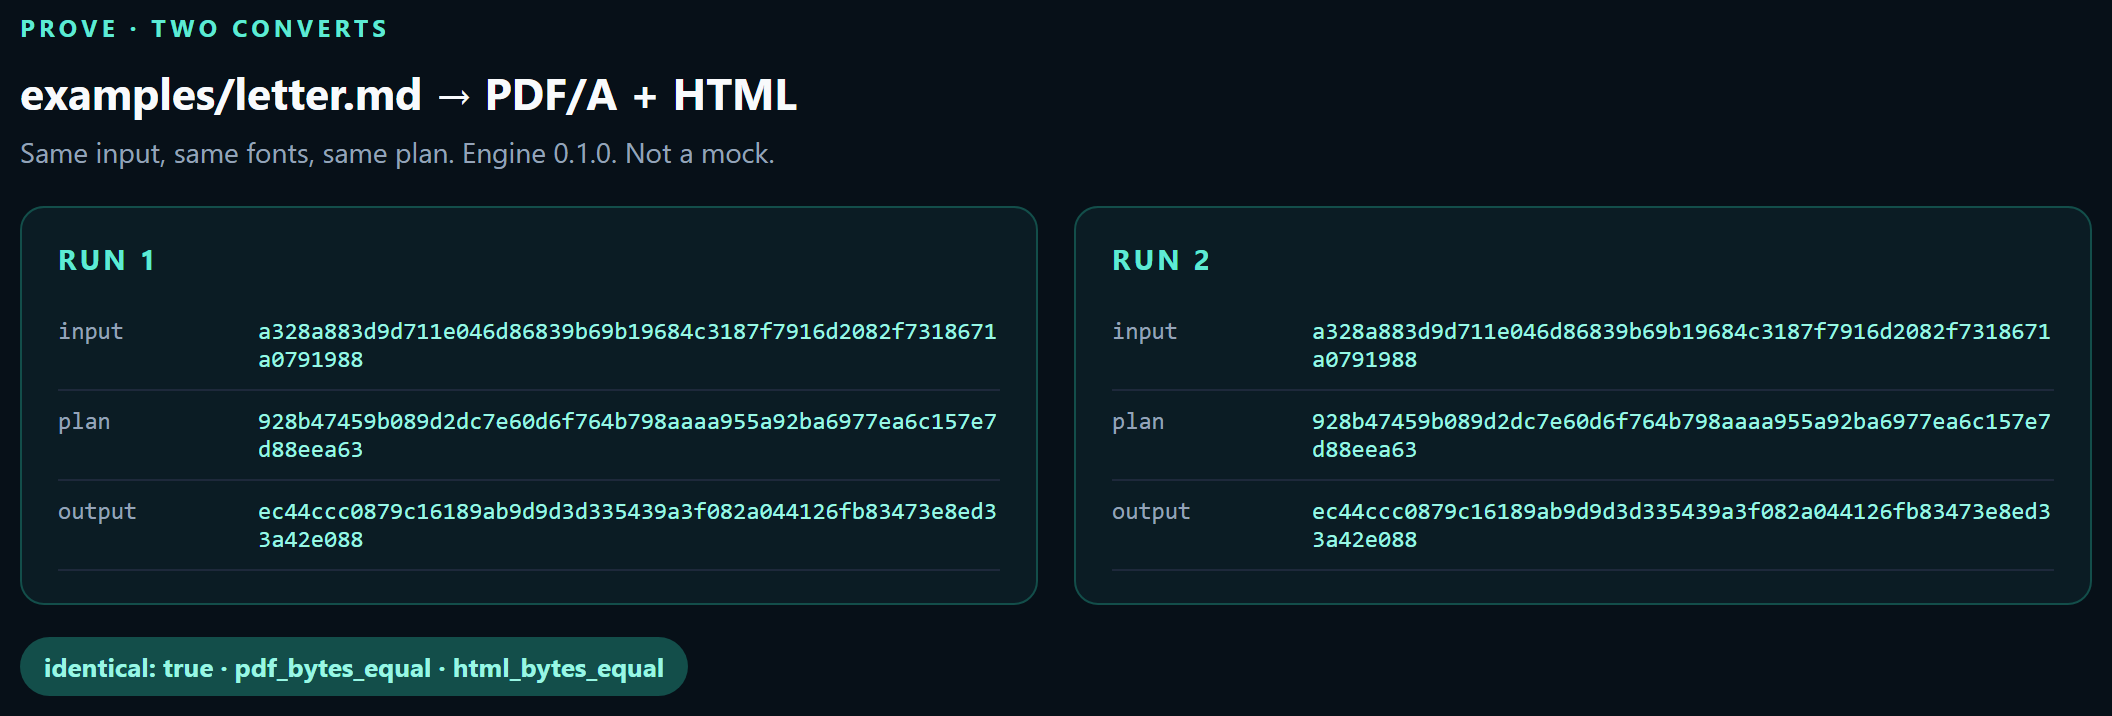
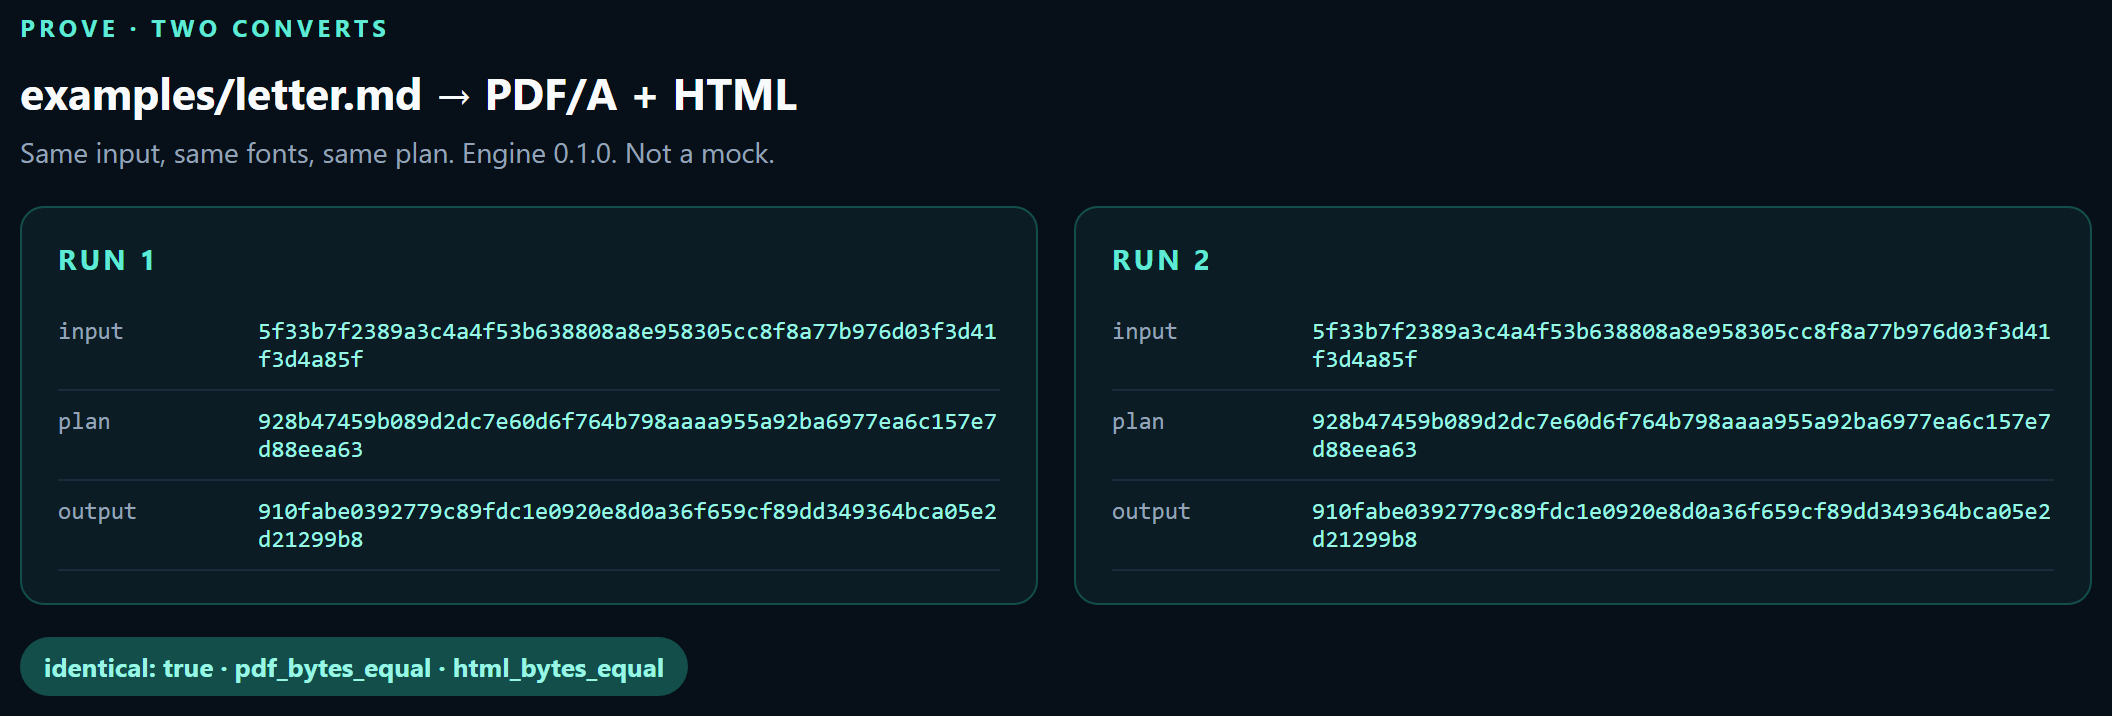
Parse markdown bold and italic into HTML strong/em.
**bold**, *italic*, and _italic_ become CharStyle runs (markers are not left in the text). HTML emits strong/em. The sample letter shows GPU-free and byte-for-byte. PDF still uses the Regular face.

diff --git a/docs/assets/letter.html b/docs/assets/letter.html
@@ -1,1 +1,1 @@
-<!DOCTYPE html><html lang="en"><head><meta charset="utf-8"/><title>DocAgent</title><style>body{margin:0;background:#f8fafc;color:#111827}article{max-width:48rem;margin:2rem auto;padding:2.5rem 2.75rem;background:#fff;border:1px solid #e2e8f0;font-family:"Segoe UI",Roboto,Helvetica,Arial,sans-serif;line-height:1.45}h1{font-size:1.75rem;margin:0 0 .6rem;letter-spacing:-.02em}h2{font-size:1.15rem;margin:1.1rem 0 .45rem;color:#134e4a}p{margin:0 0 .7rem}ul,ol{margin:0 0 1rem;padding-left:1.25rem}ul ul,ol ul,ul ol,ol ol{margin:.25rem 0}li{margin:0 0 .35rem}table{border-collapse:collapse;margin:1rem 0;width:100%}th,td{border:1px solid #cbd5e1;padding:.4rem .65rem;text-align:left;font-size:.95rem}th{background:#f0fdfa;color:#134e4a}</style></head><body><article data-section="0"><section><h1>Northwind Freight</h1><h2>Delivery confirmation — order 48291</h2><p>6 September 2026</p><p>To: operations desk, Duisburg terminal.</p><p>The shipment left Busan on 4 September and is booked on the 11 September rail window. This is a flow document: one convert, three hashes, no GPU. Run it twice with the same fonts and the PDF/A bytes match.</p><table><tr><th>Hop</th><th>File</th><th>Proof</th></tr><tr><td>Input</td><td>letter.md</td><td>input SHA-256</td></tr><tr><td>Plan</td><td>layout i32 @ 1/7200 in</td><td>plan SHA-256</td></tr><tr><td>Output</td><td>PDF/A · HTML · ODT</td><td>output SHA-256</td></tr></table><p>Please confirm before 09:00 local:</p><ul><li>Receiving dock is clear<ul><li>Bay 4, not bay 2</li></ul></li><li>Capsule hashes travel with the files</li><li>Replay the convert instead of hoping</li></ul><p>Agent replay:</p><ol><li>Hash the input</li><li>Run Convert<ul><li>PDF/A</li><li>HTML</li></ul></li><li>Compare the capsule</li></ol><p>DocAgent runtime — DOCX · ODT · Markdown · HTML · PDF/A</p></section></article></body></html>
+<!DOCTYPE html><html lang="en"><head><meta charset="utf-8"/><title>DocAgent</title><style>body{margin:0;background:#f8fafc;color:#111827}article{max-width:48rem;margin:2rem auto;padding:2.5rem 2.75rem;background:#fff;border:1px solid #e2e8f0;font-family:"Segoe UI",Roboto,Helvetica,Arial,sans-serif;line-height:1.45}h1{font-size:1.75rem;margin:0 0 .6rem;letter-spacing:-.02em}h2{font-size:1.15rem;margin:1.1rem 0 .45rem;color:#134e4a}p{margin:0 0 .7rem}strong{font-weight:700}em{font-style:italic}ul,ol{margin:0 0 1rem;padding-left:1.25rem}ul ul,ol ul,ul ol,ol ol{margin:.25rem 0}li{margin:0 0 .35rem}table{border-collapse:collapse;margin:1rem 0;width:100%}th,td{border:1px solid #cbd5e1;padding:.4rem .65rem;text-align:left;font-size:.95rem}th{background:#f0fdfa;color:#134e4a}</style></head><body><article data-section="0"><section><h1><strong>Northwind Freight</strong></h1><h2><strong>Delivery confirmation — order 48291</strong></h2><p>6 September 2026</p><p>To: operations desk, Duisburg terminal.</p><p>The shipment left Busan on 4 September and is booked on the 11 September rail window. This is a flow document: one convert, three hashes, <strong>GPU-free</strong>. Run it twice with the same fonts and the PDF/A bytes match <em>byte-for-byte</em>.</p><table><tr><th>Hop</th><th>File</th><th>Proof</th></tr><tr><td>Input</td><td>letter.md</td><td>input SHA-256</td></tr><tr><td>Plan</td><td>layout i32 @ 1/7200 in</td><td>plan SHA-256</td></tr><tr><td>Output</td><td>PDF/A · HTML · ODT</td><td>output SHA-256</td></tr></table><p>Please confirm before 09:00 local:</p><ul><li>Receiving dock is clear<ul><li>Bay 4, not bay 2</li></ul></li><li>Capsule hashes travel with the files</li><li>Replay the convert instead of hoping</li></ul><p>Agent replay:</p><ol><li>Hash the input</li><li>Run Convert<ul><li>PDF/A</li><li>HTML</li></ul></li><li>Compare the capsule</li></ol><p>DocAgent runtime — DOCX · ODT · Markdown · HTML · PDF/A</p></section></article></body></html>

diff --git a/crates/docagent-md/src/lib.rs b/crates/docagent-md/src/lib.rs
@@ -5,7 +5,7 @@
 #![forbid(unsafe_code)]
 
 use docagent_model::{
-    Block, Document, NumberFormat, NumberingRef, Paragraph, Section, Table,
+    Block, Document, NumberFormat, NumberingRef, Paragraph, Run, RunContent, Section, Table,
 };
 
 #[derive(Debug, thiserror::Error)]
@@ -68,7 +68,7 @@ pub fn read(bytes: &[u8]) -> Result<Document, Error> {
         } else if let Some((n, rest)) = ordered_item(content) {
             section.body.push(Block::Paragraph(decimal_item(rest, n, nest)));
         } else {
-            let mut p = Paragraph::from_text(trimmed);
+            let mut p = paragraph_from_inlines(trimmed);
             p.space_after = 200;
             section.body.push(Block::Paragraph(p));
         }
@@ -96,8 +96,53 @@ fn list_indent(nest: u8) -> i32 {
     1440i32.saturating_mul(i32::from(nest) + 1)
 }
 
+fn paragraph_from_inlines(text: &str) -> Paragraph {
+    let mut p = Paragraph::from_text("");
+    p.runs = parse_runs(text);
+    if p.runs.is_empty() {
+        p.runs.push(Run::text(""));
+    }
+    p
+}
+
+fn parse_runs(text: &str) -> Vec<Run> {
+    let chars: Vec<char> = text.chars().collect();
+    let mut runs = Vec::new();
+    let mut buf = String::new();
+    let mut bold = false;
+    let mut italic = false;
+    let mut i = 0;
+    let flush = |runs: &mut Vec<Run>, buf: &mut String, bold: bool, italic: bool| {
+        if buf.is_empty() {
+            return;
+        }
+        let mut run = Run::text(std::mem::take(buf));
+        run.style.bold = bold;
+        run.style.italic = italic;
+        runs.push(run);
+    };
+    while i < chars.len() {
+        if chars[i] == '*' && i + 1 < chars.len() && chars[i + 1] == '*' {
+            flush(&mut runs, &mut buf, bold, italic);
+            bold = !bold;
+            i += 2;
+            continue;
+        }
+        if chars[i] == '*' || chars[i] == '_' {
+            flush(&mut runs, &mut buf, bold, italic);
+            italic = !italic;
+            i += 1;
+            continue;
+        }
+        buf.push(chars[i]);
+        i += 1;
+    }
+    flush(&mut runs, &mut buf, bold, italic);
+    runs
+}
+
 fn decimal_item(text: &str, n: u32, nest: u8) -> Paragraph {
-    let mut p = Paragraph::from_text(text);
+    let mut p = paragraph_from_inlines(text);
     p.space_after = 80;
     p.indent_left = list_indent(nest);
     p.numbering = Some(NumberingRef {
@@ -110,7 +155,7 @@ fn decimal_item(text: &str, n: u32, nest: u8) -> Paragraph {
 }
 
 fn bullet_item(text: &str, nest: u8) -> Paragraph {
-    let mut p = Paragraph::from_text(text);
+    let mut p = paragraph_from_inlines(text);
     p.space_after = 80;
     p.indent_left = list_indent(nest);
     p.numbering = Some(NumberingRef {
@@ -123,11 +168,11 @@ fn bullet_item(text: &str, nest: u8) -> Paragraph {
 }
 
 fn heading(text: &str, level: u8, size_hu: i32, before: i32, after: i32) -> Paragraph {
-    let mut p = Paragraph::from_text(text);
+    let mut p = paragraph_from_inlines(text);
     p.outline_level = Some(level);
     p.space_before = before;
     p.space_after = after;
-    if let Some(run) = p.runs.first_mut() {
+    for run in &mut p.runs {
         run.style.size = size_hu;
         run.style.bold = true;
     }
@@ -159,10 +204,9 @@ pub fn write(doc: &Document) -> Result<Vec<u8>, Error> {
         for block in &section.body {
             match block {
                 Block::Paragraph(p) => {
-                    let t = p.plain_text();
                     match p.outline_level {
-                        Some(1) => out.push_str(&format!("# {t}\n\n")),
-                        Some(2) => out.push_str(&format!("## {t}\n\n")),
+                        Some(1) => out.push_str(&format!("# {}\n\n", p.plain_text())),
+                        Some(2) => out.push_str(&format!("## {}\n\n", p.plain_text())),
                         _ if p.numbering.as_ref().is_some_and(|n| {
                             n.format == Some(NumberFormat::Decimal)
                         }) =>
@@ -170,15 +214,15 @@ pub fn write(doc: &Document) -> Result<Vec<u8>, Error> {
                             let nref = p.numbering.as_ref().unwrap();
                             let i = nref.start.unwrap_or(1);
                             let pad = "  ".repeat(nref.level as usize);
-                            out.push_str(&format!("{pad}{i}. {t}\n"));
+                            out.push_str(&format!("{pad}{i}. {}\n", write_runs(p)));
                         }
                         _ if p.numbering.is_some() => {
                             let pad = "  ".repeat(
                                 p.numbering.as_ref().map(|n| n.level as usize).unwrap_or(0),
                             );
-                            out.push_str(&format!("{pad}- {t}\n"));
+                            out.push_str(&format!("{pad}- {}\n", write_runs(p)));
                         }
-                        _ => out.push_str(&format!("{t}\n\n")),
+                        _ => out.push_str(&format!("{}\n\n", write_runs(p))),
                     }
                 }
                 Block::Table(table) => {
@@ -209,6 +253,34 @@ pub fn write(doc: &Document) -> Result<Vec<u8>, Error> {
         }
     }
     Ok(out.into_bytes())
+}
+
+fn write_runs(p: &Paragraph) -> String {
+    let mut s = String::new();
+    for run in &p.runs {
+        let RunContent::Text(t) = &run.content else {
+            continue;
+        };
+        if t.is_empty() {
+            continue;
+        }
+        if run.style.bold && run.style.italic {
+            s.push_str("***");
+            s.push_str(t);
+            s.push_str("***");
+        } else if run.style.bold {
+            s.push_str("**");
+            s.push_str(t);
+            s.push_str("**");
+        } else if run.style.italic {
+            s.push('_');
+            s.push_str(t);
+            s.push('_');
+        } else {
+            s.push_str(t);
+        }
+    }
+    s
 }
 
 #[cfg(test)]
@@ -286,6 +358,36 @@ mod tests {
         let back = write(&doc).unwrap();
         let text = String::from_utf8(back).unwrap();
         assert!(text.contains("  - bay 4"), "{text}");
+    }
+
+    #[test]
+    fn emphasis_splits_runs_and_roundtrips() {
+        let src = b"one **two** three _four_\n";
+        let doc = read(src).unwrap();
+        let Block::Paragraph(p) = &doc.sections[0].body[0] else {
+            panic!("para");
+        };
+        let flags: Vec<_> = p
+            .runs
+            .iter()
+            .map(|r| (r.style.bold, r.style.italic, match &r.content {
+                RunContent::Text(t) => t.as_str(),
+                _ => "",
+            }))
+            .collect();
+        assert_eq!(
+            flags,
+            [
+                (false, false, "one "),
+                (true, false, "two"),
+                (false, false, " three "),
+                (false, true, "four"),
+            ]
+        );
+        let back = String::from_utf8(write(&doc).unwrap()).unwrap();
+        assert!(back.contains("**two**"), "{back}");
+        assert!(back.contains("_four_"), "{back}");
+        assert!(!back.contains("**one"), "{back}");
     }
 
     #[test]

diff --git a/crates/docagent-html/src/lib.rs b/crates/docagent-html/src/lib.rs
@@ -2,11 +2,11 @@
 
 #![forbid(unsafe_code)]
 
-use docagent_model::{Block, Document, Paragraph, Table};
+use docagent_model::{Block, Document, Paragraph, RunContent, Table};
 
 pub fn to_html(doc: &Document) -> String {
     let mut s = String::from(
-        r#"<!DOCTYPE html><html lang="en"><head><meta charset="utf-8"/><title>DocAgent</title><style>body{margin:0;background:#f8fafc;color:#111827}article{max-width:48rem;margin:2rem auto;padding:2.5rem 2.75rem;background:#fff;border:1px solid #e2e8f0;font-family:"Segoe UI",Roboto,Helvetica,Arial,sans-serif;line-height:1.45}h1{font-size:1.75rem;margin:0 0 .6rem;letter-spacing:-.02em}h2{font-size:1.15rem;margin:1.1rem 0 .45rem;color:#134e4a}p{margin:0 0 .7rem}ul,ol{margin:0 0 1rem;padding-left:1.25rem}ul ul,ol ul,ul ol,ol ol{margin:.25rem 0}li{margin:0 0 .35rem}table{border-collapse:collapse;margin:1rem 0;width:100%}th,td{border:1px solid #cbd5e1;padding:.4rem .65rem;text-align:left;font-size:.95rem}th{background:#f0fdfa;color:#134e4a}</style></head><body>"#,
+        r#"<!DOCTYPE html><html lang="en"><head><meta charset="utf-8"/><title>DocAgent</title><style>body{margin:0;background:#f8fafc;color:#111827}article{max-width:48rem;margin:2rem auto;padding:2.5rem 2.75rem;background:#fff;border:1px solid #e2e8f0;font-family:"Segoe UI",Roboto,Helvetica,Arial,sans-serif;line-height:1.45}h1{font-size:1.75rem;margin:0 0 .6rem;letter-spacing:-.02em}h2{font-size:1.15rem;margin:1.1rem 0 .45rem;color:#134e4a}p{margin:0 0 .7rem}strong{font-weight:700}em{font-style:italic}ul,ol{margin:0 0 1rem;padding-left:1.25rem}ul ul,ol ul,ul ol,ol ol{margin:.25rem 0}li{margin:0 0 .35rem}table{border-collapse:collapse;margin:1rem 0;width:100%}th,td{border:1px solid #cbd5e1;padding:.4rem .65rem;text-align:left;font-size:.95rem}th{background:#f0fdfa;color:#134e4a}</style></head><body>"#,
     );
     for (i, section) in doc.sections.iter().enumerate() {
         s.push_str(&format!(r#"<article data-section="{i}">"#));
@@ -82,7 +82,7 @@ fn emit_list(s: &mut String, blocks: &[Block], i: &mut usize) {
             break;
         };
         s.push_str("<li>");
-        s.push_str(&escape(&p.plain_text()));
+        push_runs(s, p);
         *i += 1;
         if *i < blocks.len() && list_level(&blocks[*i]).is_some_and(|nl| nl > base) {
             emit_list(s, blocks, i);
@@ -127,10 +127,35 @@ fn push_para(s: &mut String, p: &Paragraph) {
     s.push_str("<");
     s.push_str(tag);
     s.push_str(">");
-    s.push_str(&escape(&p.plain_text()));
+    push_runs(s, p);
     s.push_str("</");
     s.push_str(tag);
     s.push_str(">");
+}
+
+fn push_runs(s: &mut String, p: &Paragraph) {
+    for run in &p.runs {
+        let RunContent::Text(t) = &run.content else {
+            continue;
+        };
+        if t.is_empty() {
+            continue;
+        }
+        let escaped = escape(t);
+        if run.style.bold {
+            s.push_str("<strong>");
+        }
+        if run.style.italic {
+            s.push_str("<em>");
+        }
+        s.push_str(&escaped);
+        if run.style.italic {
+            s.push_str("</em>");
+        }
+        if run.style.bold {
+            s.push_str("</strong>");
+        }
+    }
 }
 
 fn push_table(s: &mut String, t: &Table) {
@@ -198,8 +223,8 @@ mod tests {
         section.body.push(Block::Paragraph(h2));
         doc.sections.push(section);
         let html = to_html(&doc);
-        assert!(html.contains("<h1>Title</h1>"));
-        assert!(html.contains("<h2>Section</h2>"));
+        assert!(html.contains("<h1>") && html.contains("Title") && html.contains("</h1>"));
+        assert!(html.contains("<h2>") && html.contains("Section") && html.contains("</h2>"));
     }
 
     #[test]
@@ -281,5 +306,21 @@ mod tests {
         doc.sections.push(section);
         let html = to_html(&doc);
         assert!(html.contains("<ul><li>dock<ul><li>bay 4</li></ul></li></ul>"), "{html}");
+    }
+
+    #[test]
+    fn emphasis_emits_strong_and_em() {
+        let mut doc = Document::new();
+        let mut section = Section::default();
+        let mut p = Paragraph::from_text("two");
+        p.runs[0].style.bold = true;
+        let mut q = Paragraph::from_text("four");
+        q.runs[0].style.italic = true;
+        section.body.push(Block::Paragraph(p));
+        section.body.push(Block::Paragraph(q));
+        doc.sections.push(section);
+        let html = to_html(&doc);
+        assert!(html.contains("<strong>two</strong>"), "{html}");
+        assert!(html.contains("<em>four</em>"), "{html}");
     }
 }

diff --git a/docs/loop/STATE.md b/docs/loop/STATE.md
@@ -1,25 +1,24 @@
 # DocAgent #1 loop state
 
-Last cycle: 7 (2026-09-06) — nested lists on the sample letter
+Last cycle: 8 (2026-09-06) — markdown/HTML inline emphasis
 
 ## Public GitHub page (priority 0)
 
 The page strangers see is `https://github.com/kevin9327/docagent`.
 
 Shipped this cycle:
-- Markdown nested lists (`  -` / `   -`) set `NumberingRef.level` and hanging indent.
-- HTML emits nested `<ul>`/`<ol>` inside the parent `<li>`.
-- Layout now places lines at `origin_x + line.x` so list indent is not discarded.
-- Sample letter shows a nested dock note and nested PDF/A·HTML under Convert. Screenshots and prove hashes refreshed.
+- Markdown `**bold**`, `*italic*`, `_italic_` become IR `CharStyle` runs (asterisks are not left in the text).
+- HTML emits `<strong>` / `<em>`. Sample letter uses **GPU-free** and _byte-for-byte_.
+- PDF still uses the single Regular face; emphasis is in the IR and HTML screenshot. Screenshots and prove hashes refreshed.
 
 Verified hashes (engine 0.1.0, letter.md → PDF/A + HTML):
[5 lines of base64/hex data omitted]
 
 ## Next
 
-1. Inline emphasis (`**bold**` / `_italic_`) in markdown → HTML `<strong>`/`<em>` (PDF needs a bold face).
+1. PDF emphasis: bundle a bold face or synthetic bold on `CharStyle.bold` spans.
 2. Or PDF drawing of non-table fills beyond the grid.
 3. Keep visual density at or above MinerU/Docling for an *agent document runtime*.
 

diff --git a/README.md b/README.md
@@ -89,9 +89,9 @@ Not a slogan. Two `Command::Convert` calls on [`examples/letter.md`](examples/le
 
 | Hash | SHA-256 (both runs) |
 | --- | --- |
[5 lines of base64/hex data omitted]
 
 These are the hashes in [`letter-capsule.json`](docs/assets/letter-capsule.json). MinerU and Docling do not ship this. We do not ship OmniDocBench numbers.
 
@@ -107,7 +107,7 @@ These three pictures are the convert of [`examples/letter.md`](examples/letter.m
 <p align="center">
   <img src="docs/assets/output-html.png" alt="Semantic HTML produced by DocAgent from the same letter" width="100%">
 </p>
-<p align="center"><sub>HTML from the same IR. Headings, tables, nested bullets, and numbered lists an agent can read back.</sub></p>
+<p align="center"><sub>HTML from the same IR. Headings, tables, nested lists, <strong>bold</strong> and <em>italic</em>.</sub></p>
 
 <p align="center">
   <img src="docs/assets/output-capsule.png" alt="Capsule JSON with input, plan, and output SHA-256 hashes" width="100%">

diff --git a/examples/letter.md b/examples/letter.md
@@ -6,7 +6,7 @@
 
 To: operations desk, Duisburg terminal.
 
-The shipment left Busan on 4 September and is booked on the 11 September rail window. This is a flow document: one convert, three hashes, no GPU. Run it twice with the same fonts and the PDF/A bytes match.
+The shipment left Busan on 4 September and is booked on the 11 September rail window. This is a flow document: one convert, three hashes, **GPU-free**. Run it twice with the same fonts and the PDF/A bytes match _byte-for-byte_.
 
 | Hop | File | Proof |
 | --- | --- | --- |
